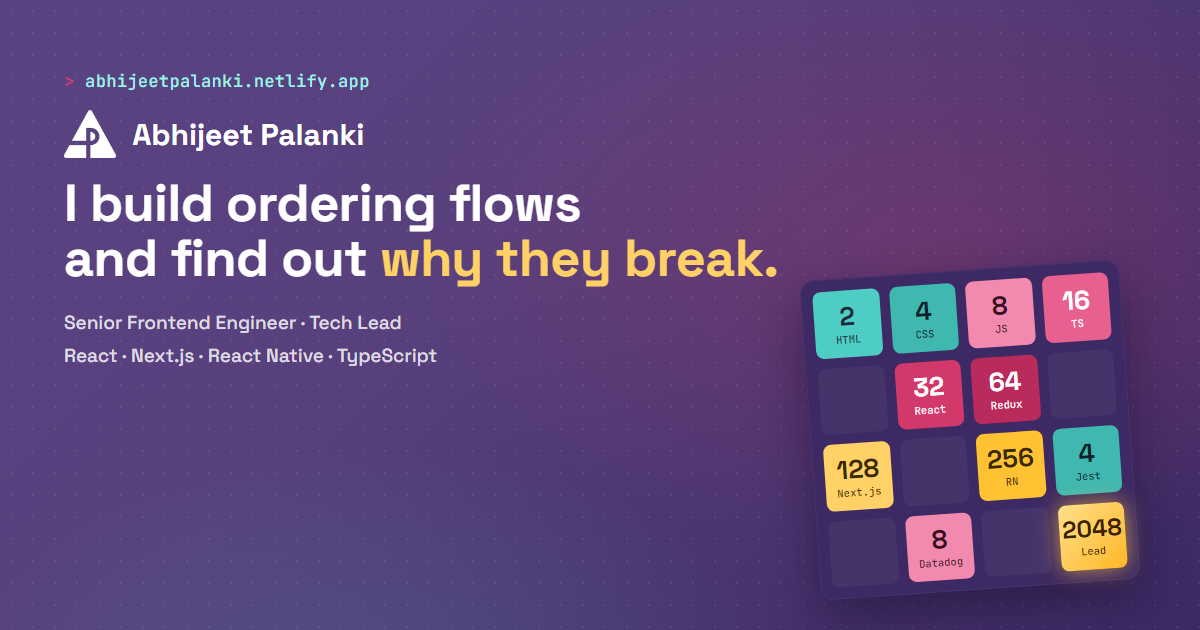
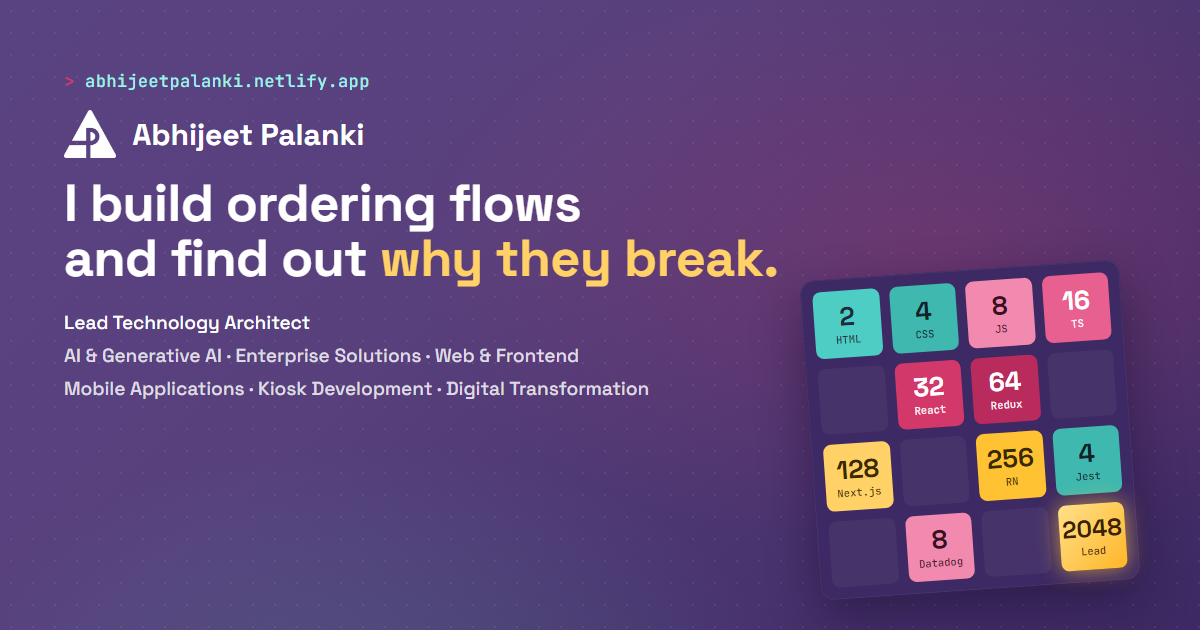
Match the headline to LinkedIn: Lead Technology Architect
- Hero shows the title plus six focus areas as tags
- Page title, meta and Open Graph descriptions, and the no-JS fallback use the new headline
- og-image re-rendered with the new title and focus areas

Changed region(s): [[0.0308, 0.4825, 0.4933, 0.573], [0.0308, 0.6032, 0.555, 0.6333]]

diff --git a/index.html b/index.html
@@ -13,12 +13,12 @@
       rel="stylesheet"
       href="https://fonts.googleapis.com/css2?family=Inter:ital,opsz,wght@0,14..32,100..900;1,14..32,100..900&display=swap"
     />
-    <title>Abhijeet Palanki · Senior Frontend Engineer · Tech Lead</title>
-    <meta name="description" content="Senior frontend engineer and tech lead at Tropical Smoothie Cafe. React, Next.js, React Native and TypeScript. I build ordering flows and find out why they break." />
+    <title>Abhijeet Palanki · Lead Technology Architect</title>
+    <meta name="description" content="Lead Technology Architect: AI and generative AI, enterprise solutions, web and frontend, mobile applications, kiosk development and digital transformation. I build ordering flows and find out why they break." />
     <meta property="og:type" content="website" />
     <meta property="og:url" content="https://abhijeetpalanki.netlify.app/" />
-    <meta property="og:title" content="Abhijeet Palanki · Senior Frontend Engineer · Tech Lead" />
-    <meta property="og:description" content="React, Next.js, React Native and TypeScript. I build ordering flows and find out why they break." />
+    <meta property="og:title" content="Abhijeet Palanki · Lead Technology Architect" />
+    <meta property="og:description" content="AI & Generative AI · Enterprise Solutions · Web & Frontend · Mobile Applications · Kiosk Development · Digital Transformation" />
     <meta property="og:image" content="https://abhijeetpalanki.netlify.app/og-image.png" />
     <meta property="og:image:width" content="1200" />
     <meta property="og:image:height" content="630" />
@@ -32,7 +32,7 @@
         #root [style*="opacity"] { opacity: 1 !important; transform: none !important; }
       </style>
       <p style="color:#d6d3d1;font-family:sans-serif;padding:2rem">
-        Abhijeet Palanki, Senior Frontend Engineer and Tech Lead.
+        Abhijeet Palanki, Lead Technology Architect.
         <a href="/resume.pdf" style="color:#d8b4fe">Resume (PDF)</a> ·
         <a href="https://www.linkedin.com/in/abhijeetpalanki/" style="color:#d8b4fe">LinkedIn</a> ·
         <a href="https://github.com/abhijeetpalanki" style="color:#d8b4fe">GitHub</a>

diff --git a/src/components/Hero.jsx b/src/components/Hero.jsx
@@ -1,7 +1,7 @@
 import React from "react";
 import profileCircle from "../assets/profile-circle.webp";
 import profilePortrait from "../assets/profile-portrait.webp";
-import { HERO_CONTENT } from "../constants";
+import { HEADLINE_AREAS, HEADLINE_TITLE, HERO_CONTENT } from "../constants";
 import { motion } from "framer-motion";
 
 const containerVariants = {
@@ -74,10 +74,24 @@ const Hero = () => {
             </motion.h1>
             <motion.p
               variants={childVariants}
-              className="bg-linear-to-r from-stone-200 to-stone-400 bg-clip-text text-3xl tracking-tight text-transparent"
+              className="bg-linear-to-r from-stone-200 to-stone-400 bg-clip-text text-center text-3xl tracking-tight text-transparent lg:text-left"
             >
-              Senior Frontend Engineer · Tech Lead
+              {HEADLINE_TITLE}
             </motion.p>
+            <motion.ul
+              variants={childVariants}
+              aria-label="Focus areas"
+              className="mt-4 flex max-w-xl flex-wrap justify-center gap-2 lg:justify-start"
+            >
+              {HEADLINE_AREAS.map((area) => (
+                <li
+                  key={area}
+                  className="rounded-full border border-stone-700 px-3 py-1 text-sm text-stone-300"
+                >
+                  {area}
+                </li>
+              ))}
+            </motion.ul>
             <motion.p
               variants={childVariants}
               className="my-2 max-w-lg py-6 text-xl leading-relaxed tracking-tighter text-pretty"

diff --git a/src/constants/index.js b/src/constants/index.js
@@ -5,6 +5,18 @@ import shirtyImage from "../assets/projects/Shirty.webp";
 
 // Keep this file in step with the resume (A:/Personal/linkedin/resume) and LinkedIn.
 
+// Matches the LinkedIn headline: "Lead Technology Architect | AI & Generative AI | Enterprise Solutions |
+// Web & Frontend | Mobile Applications | Kiosk Development | Digital Transformation".
+export const HEADLINE_TITLE = "Lead Technology Architect";
+export const HEADLINE_AREAS = [
+  "AI & Generative AI",
+  "Enterprise Solutions",
+  "Web & Frontend",
+  "Mobile Applications",
+  "Kiosk Development",
+  "Digital Transformation",
+];
+
 export const HERO_CONTENT = `I co-lead frontend development for Tropical Smoothie Cafe's online ordering platform: a Next.js site, its React component library, and a shared TypeScript core that the React Native app runs on too. Nearly ten years of React, Next.js and TypeScript, from Walmart and Tyler Technologies to today. Most of my work is making sure an order goes through on the first tap. The rest is finding out why it didn't.`;
 
 export const EXPERIENCES = [
